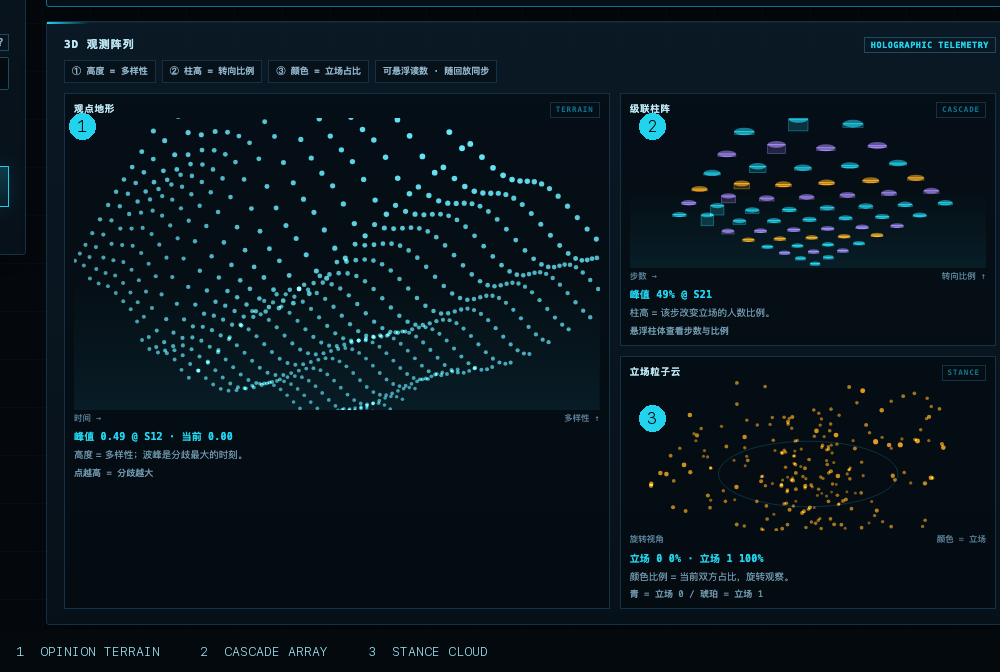
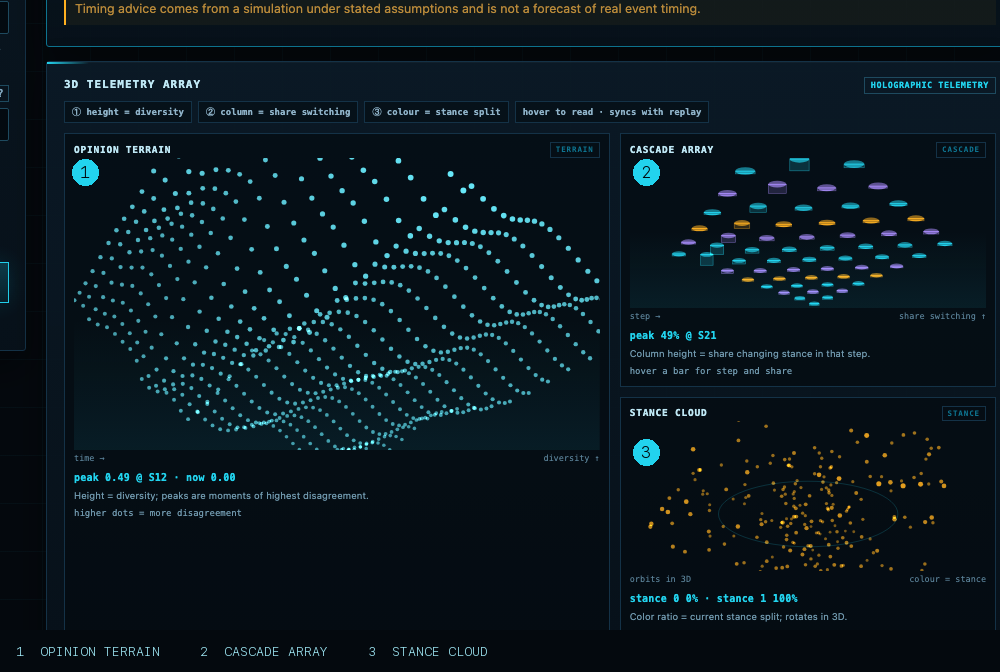
docs: default the product and README to English
Make English the default UI language for new visitors (URL or saved preference still wins), switch the root README to an English landing page, and refresh the English screenshots and annotated 3D image.

diff --git a/apps/web/index.html b/apps/web/index.html
@@ -1,9 +1,9 @@
 <!doctype html>
-<html lang="zh-CN">
+<html lang="en">
 <head>
 <meta charset="utf-8">
 <meta name="viewport" content="width=device-width, initial-scale=1">
-<title>OpinionLab · 情景推演沙盘 / Scenario sandbox</title>
+<title>OpinionLab · Scenario Sandbox</title>
 <link rel="stylesheet" href="/api/v1/demo/static/style.css">
 <script src="/api/v1/demo/echarts.js"></script>
 <script defer src="/api/v1/demo/static/i18n.js"></script>

diff --git a/site/index.html b/site/index.html
@@ -1,9 +1,9 @@
 <!doctype html>
-<html lang="zh-CN">
+<html lang="en">
 <head>
 <meta charset="utf-8">
 <meta name="viewport" content="width=device-width, initial-scale=1">
-<title>OpinionLab · 在线情景推演 / Live sandbox</title>
+<title>OpinionLab · Live Scenario Sandbox</title>
 <link rel="stylesheet" href="./style.css">
 <script src="./echarts.min.js"></script>
 <script defer src="./i18n.js"></script>

diff --git a/apps/web/i18n.js b/apps/web/i18n.js
@@ -118,7 +118,7 @@
     if (fromUrl === "en" || fromUrl === "zh") return fromUrl;
     const saved = localStorage.getItem("opinionlab-lang");
     if (saved === "en" || saved === "zh") return saved;
-    return (navigator.language || "zh").toLowerCase().startsWith("en") ? "en" : "zh";
+    return "en";
   }
 
   const api = {

diff --git a/tests/test_static_site.py b/tests/test_static_site.py
@@ -19,6 +19,7 @@ def test_static_site_sources_exist() -> None:
         assert (SITE / name).exists(), name
     html = (SITE / "index.html").read_text(encoding="utf-8")
     assert "OpinionLab" in html
+    assert 'lang="en"' in html
     assert "非对真实舆情的预测" in html
     assert "./sim.js" in html
     assert "这些参数到底在做什么" in html

diff --git a/tests/test_demo_app.py b/tests/test_demo_app.py
@@ -40,6 +40,7 @@ def test_demo_page_is_self_contained() -> None:
     assert response.status_code == 200
     html = response.text
     assert "OpinionLab" in html
+    assert 'lang="en"' in html
     assert "/api/v1/demo/echarts.js" in html
     assert "/api/v1/demo/static/app.js" in html
     assert "/api/v1/demo/static/style.css" in html

diff --git a/README.md b/README.md
@@ -4,36 +4,38 @@
 [![License: MIT](https://img.shields.io/badge/License-MIT-yellow.svg)](LICENSE)
 [![Python 3.12](https://img.shields.io/badge/python-3.12-blue.svg)](pyproject.toml)
 
-**中文** · [English](README_en.md) · [完整中文说明](README_cn.md)
+**English** · [中文](README_cn.md) · [Full English guide](README_en.md)
 
-**把“一群人会怎么想”变成可重复的实验。**
+**Turn “how would this group react?” into an experiment you can repeat.**
 A sandbox for how opinions spread through groups — reproducible, with uncertainty ranges.
 
 ![OpinionLab demo](docs/demo.png)
 
-**在线体验 / Live demo:** https://cxy2696.github.io/opinionlab/
+**Live demo:** https://cxy2696.github.io/opinionlab/
 
 ---
 
-## 它是什么 / What it is
-
-OpinionLab 用超图、非线性从众 `q` 和异质时延模拟群体观点演化。它输出带 95% 置信区间的情景范围，
-以及“这个结果能支持什么判断”的说明，而不是单点预测。
+## What it is
 
 OpinionLab simulates group opinion with hypergraphs, non-linear conformity `q` and heterogeneous
 latency. It returns scenario ranges with 95% confidence intervals and a plain-language decision
 brief — not a single-point forecast.
 
-## 亮点 / Highlights
+模型用超图、非线性从众 `q` 与异质时延模拟群体观点，输出带 95% 置信区间的情景范围与“能支持什么判断”的说明，
+而不是单点预测。详见 [中文说明](README_cn.md)。
 
-- **15 个中英双语模板**：危机沟通、社区议事、组织变革、产品发布、政策治理、学术复现
-- **3D 工业操作舱**：星系背景、旋转舆情网络、目标锁定与遥测
-- **3D 观测阵列**：观点地形、级联柱阵、立场粒子云，带读数、图例与悬浮值
-- **参数解释**：每个参数都有“是什么/为什么调”、悬停提示与一键预置
-- **决策提示**：关键时点、建议窗口、后续验证清单
-- **可选本地 Ollama**：辅助解读，默认关闭，只解释不结论
+## Highlights
 
-## 30 秒上手 / 30-second start
+- **15 bilingual templates:** crisis communication, community, organizational change, product launch,
+  policy, research.
+- **3D industrial cockpit:** galaxy backdrop, rotating opinion network, target lock and telemetry.
+- **3D telemetry array:** opinion terrain, cascade bars and stance cloud with readouts, legends and
+  hover values.
+- **Explained parameters:** every knob has “what / why”, hover tips and presets.
+- **Decision brief:** timing nodes, a simulated action window and follow-up checks.
+- **Optional local Ollama:** assistive narration, off by default, never used for metrics or conclusions.
+
+## 30-second start
 
 ```bash
 git clone https://github.com/cxy2696/opinionlab.git
@@ -41,38 +43,39 @@ cd opinionlab
 make demo        # http://127.0.0.1:8000
 ```
 
-或直接打开在线版，无需安装：https://cxy2696.github.io/opinionlab/
+Or open the hosted demo: https://cxy2696.github.io/opinionlab/
 
 ```bash
 make check       # ruff + mypy --strict + pytest
 uv run python examples/rumor_timing.py --repeats 8
 ```
 
-## 文档 / Documentation
+## Documentation
 
-| 中文 | English |
+| English | 中文 |
 |---|---|
-| [完整中文说明](README_cn.md) | [Full English README](README_en.md) |
-| [使用场景](docs/USE_CASES_cn.md) | [Use cases](docs/USE_CASES_en.md) |
-| [产品演示](docs/DEMO_cn.md) | [Demo](docs/DEMO_en.md) |
-| [架构](docs/ARCHITECTURE_cn.md) | [Architecture](docs/ARCHITECTURE_en.md) |
-| [数学模型](docs/MATH_MODEL_cn.md) | [Math model](docs/MATH_MODEL_en.md) |
-| [模型卡](docs/MODEL_CARD_cn.md) | [Model card](docs/MODEL_CARD_en.md) |
-| [合规](docs/COMPLIANCE_cn.md) | [Compliance](docs/COMPLIANCE_en.md) |
-| [运维手册](docs/RUNBOOK_cn.md) | [Runbook](docs/RUNBOOK_en.md) |
-| [容量报告](docs/capacity-report_cn.md) | [Capacity](docs/capacity-report_en.md) |
-| [变更日志](CHANGELOG_cn.md) | [Changelog](CHANGELOG_en.md) |
+| [Full English guide](README_en.md) | [完整中文说明](README_cn.md) |
+| [Docs index](docs/README_en.md) | [文档导航](docs/README_cn.md) |
+| [Use cases](docs/USE_CASES_en.md) | [使用场景](docs/USE_CASES_cn.md) |
+| [Demo](docs/DEMO_en.md) | [产品演示](docs/DEMO_cn.md) |
+| [Architecture](docs/ARCHITECTURE_en.md) | [架构](docs/ARCHITECTURE_cn.md) |
+| [Math model](docs/MATH_MODEL_en.md) | [数学模型](docs/MATH_MODEL_cn.md) |
+| [Model card](docs/MODEL_CARD_en.md) | [模型卡](docs/MODEL_CARD_cn.md) |
+| [Compliance](docs/COMPLIANCE_en.md) | [合规](docs/COMPLIANCE_cn.md) |
+| [Runbook](docs/RUNBOOK_en.md) | [运维手册](docs/RUNBOOK_cn.md) |
+| [Capacity](docs/capacity-report_en.md) | [容量报告](docs/capacity-report_cn.md) |
+| [Changelog](CHANGELOG_en.md) | [变更日志](CHANGELOG_cn.md) |
 
-## 仓库一览 / Repository at a glance
+## Repository at a glance
 
-| 路径 | 说明 |
+| Path | What it is |
 |---|---|
-| `packages/hnle/` | 独立仿真引擎：模型、内核、指标、Monte Carlo、报告 |
-| `apps/api/` | FastAPI 服务：登录、配额、作业、合规、演示 API |
-| `apps/web/` | 本地演示前端源码；`site/` 构建时复用 |
-| `scenarios/` | 15 个双语模板 |
-| `tests/` | 单元、集成、金标、前端与文档测试 |
-| `docs/` | 中英成对的数学、架构、合规、运维文档 |
+| `packages/hnle/` | Standalone simulation engine: model, kernels, metrics, Monte Carlo, reports |
+| `apps/api/` | FastAPI service: auth, quotas, jobs, compliance, demo API |
+| `apps/web/` | Local demo frontend source; `site/` reuses it at build time |
+| `scenarios/` | 15 bilingual templates |
+| `tests/` | Unit, integration, golden, frontend and documentation tests |
+| `docs/` | Paired English/Chinese math, architecture, compliance and operations docs |
 
 ## License
 
